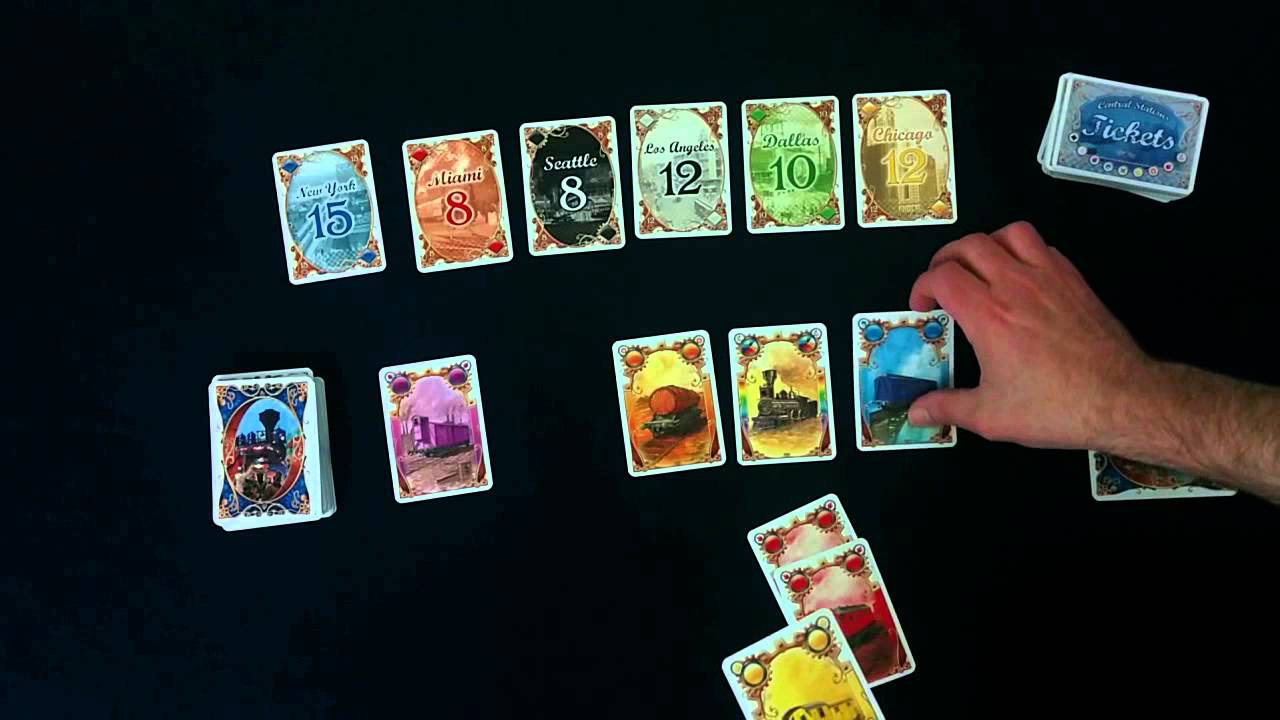
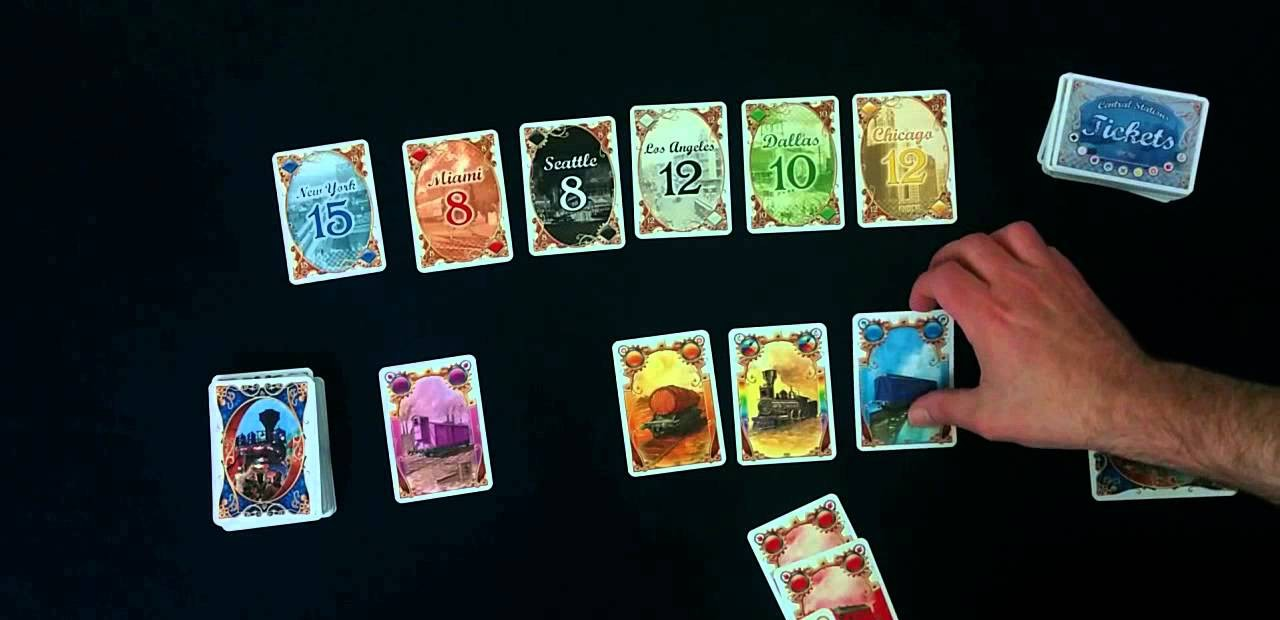
Fixed some images resolution, added marmatrix project, added images and project link

diff --git a/index.html b/index.html
@@ -578,6 +578,14 @@
                 </a>
             </div> <!-- end folio-item -->
 
+            <div class="column folio-item" data-category="games">
+                <a data-content="Marmatrix" href="#modal-18" class="folio-item__thumb">
+                    <img src="images/portfolio/Marmatrix.png"
+                         srcset="images/portfolio/Marmatrix.png 1x,
+                                 images/portfolio/Marmatrix.png 2x" alt="Tiele">
+                </a>
+            </div> <!-- end folio-item -->
+
         </div> <!-- end folio-list -->
         <!-- Modal Templates Popup
     =========================================================== -->
@@ -1128,6 +1136,35 @@
                     </ul>
                 </div>
                 <a href="" class="modal-popup__details">Project link</a>
+            </div>
+        </div> <!-- end modal -->
+
+        <div id="modal-18" hidden>
+            <div class="modal-popup">
+                <img src="images/portfolio/MarmatrixLandscape.png" alt="" />
+
+                <div class="modal-popup__desc">
+                    <h5>Marmatrix</h5>
+                    <p>
+                        Marmatrix is a lightweight, modern OpenGL engine focused on clarity and rapid iteration. 
+                        It pairs a clean C++17 codebase with GLFW for windowing/input, GLAD for loading,
+                         GLM for math, stb_image for textures, and Dear ImGui for live tooling. The goals are:
+
+                        <ul>
+                            <li>a minimal, readable rendering loop (model–view–projection done right),</li>
+                            <li>practical building blocks (camera, chunked worlds, meshes, textures),</li>
+                            <li>immediate-feedback tools (debug overlay, menu, hot-reload ready),</li>
+                            <li>and a foundation you can extend toward voxel worlds, lighting, PBR, instancing, and ECS.</li>
+                        </ul>
+                    </p>
+                    <ul class="modal-popup__cat">
+                        <li>OpenGL</li>
+                        <li>GLFW</li>
+                        <li>Glad</li>
+                        <li>C++</li>
+                    </ul>
+                </div>
+                <a href="https://github.com/Nikolhs123/Marmatrix" class="modal-popup__details">Project link</a>
             </div>
         </div> <!-- end modal -->
 
